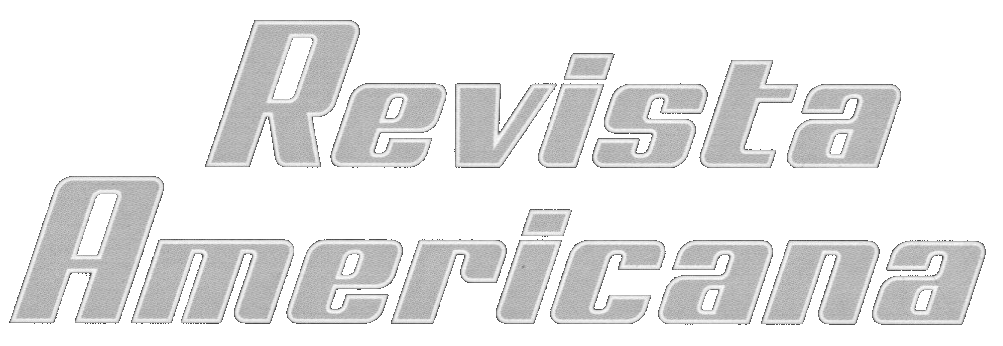
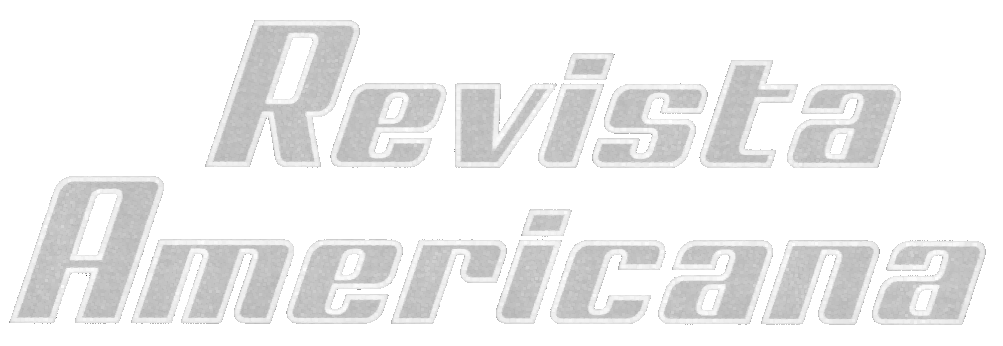
add svg ra-titulo.svg

diff --git a/public/textos/revista-americana/index.html b/public/textos/revista-americana/index.html
@@ -140,8 +140,8 @@ Revista Americana trata de ciertos personajes que son algo más que ficción par
   <button id="btn-es" style="padding: 10px 20px; background-color: transparent; color: #ffffff; border: 2px solid #505050; border-radius: 5px; text-align: center; cursor: pointer;">Español</button>
   <button id="btn-en" style="padding: 10px 20px; background-color: transparent; color: #ffffff; border: 2px solid #505050; border-radius: 5px; text-align: center; cursor: pointer;">English</button>
 </div>  
-<div style="text-align: center; margin-top: 20px;">
-  <img src="/images/textos/ra-titulo.png" alt="Revista Americana Título" style="max-width: 100%; height: auto;">
+<div style="text-align: center; margin: 60px 0;">
+  <img src="/images/textos/ra-titulo.svg" alt="Revista Americana Título" style="width: 100%; max-width: 800px; height: auto;">
 </div>
 <div id="content-es" style="text-align: justify;">
 <p>Estimados Lectores:</p>

diff --git a/content/textos/revista-americana/index.md b/content/textos/revista-americana/index.md
@@ -3,9 +3,10 @@
   <button id="btn-en" style="padding: 10px 20px; background-color: transparent; color: #ffffff; border: 2px solid #505050; border-radius: 5px; text-align: center; cursor: pointer;">English</button>
 </div>  
 
-<div style="text-align: center; margin-top: 20px;">
-  <img src="/images/textos/ra-titulo.png" alt="Revista Americana Título" style="max-width: 100%; height: auto;">
+<div style="text-align: center; margin: 60px 0;">
+  <img src="/images/textos/ra-titulo.svg" alt="Revista Americana Título" style="width: 100%; max-width: 800px; height: auto;">
 </div>
+
 
 <div id="content-es" style="text-align: justify;">
 
